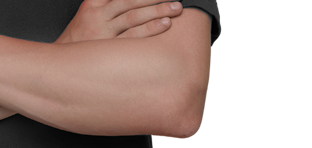
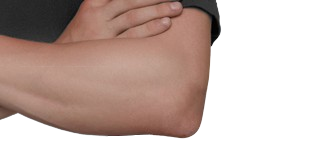
feat(about): enhance about-me component layout and styling with responsive adjustments

diff --git a/src/app/components/about-me/about-me.scss b/src/app/components/about-me/about-me.scss
@@ -5,50 +5,75 @@
     position: relative;
     width: 100%;
     background: var(--bg-dark-3); 
-    padding: clamp(var(--space-3xl), 8vw, var(--space-4xl)) 0 clamp(var(--space-4xl), 10vw, 6rem) 0;
+    padding: clamp(var(--space-2xl), 7vw, var(--space-4xl)) 0 clamp(var(--space-3xl), 9vw, 6rem) 0;
     overflow: hidden;
 
-        &__container {
+    &__container {
         @include global_content_wrapper();
         margin: 0 auto;
-        @include flexbox(column-reverse, flex-start, center, var(--space-3xl));
+        position: relative;
 
-        @media (min-width: 992px) {
-            @include flexbox(row, space-between, flex-start, var(--space-xl));
-            
-            padding-left: 100px; 
-            padding-right: clamp(var(--space-lg), 5vw, var(--space-2xl)); 
+        @include flexbox(row, space-between, flex-start, clamp(6rem, 10vw, 10rem));
+        padding-left: 100px; 
+        padding-right: clamp(var(--space-lg), 5vw, var(--space-2xl));
+
+        @include respond-to(xl) {
+            @include flexbox(column, flex-start, center, clamp(var(--space-xl), 5vw, var(--space-3xl)));
+            padding-left: clamp(var(--space-lg), 5vw, var(--space-2xl));
         }
     }
 
     &__content {
-        flex: 1;
-        max-width: 600px;
-        width: 100%;
-        margin-left: 0; 
+        flex: 0 1 38rem;
+        max-width: 580px;
+        width: auto;
+        margin-left: 0;
+
+        @include respond-to(xl) {
+            flex: 1 1 auto;
+            max-width: 600px;
+            width: 100%;
+        }
     }
 
     &__title {
         font-family: var(--font-family);
         font-weight: var(--fw-bold);
-        font-size: clamp(2.5rem, 5vw, var(--fs-hero-title)); 
+        font-size: clamp(2.5rem, 5vw, var(--fs-section-title)); 
         line-height: var(--line-height-tight); 
         color: var(--txt-primary);
         margin-bottom: var(--space-xl);
+
+        @include respond-to(xl) {
+            font-size: clamp(2.5rem, 10vw, 3.75rem);
+            margin-bottom: clamp(var(--space-lg), 4vw, var(--space-xl));
+        }
+
+        @include respond-to(xsm) {
+            font-size: clamp(2.5rem, 12vw, 3.25rem);
+        }
     }
 
     &__intro-box {
         @include flexbox(column, flex-start, flex-start, 35px); 
         width: 100%;
+
+        @include respond-to(xl) {
+            gap: clamp(var(--space-xl), 4vw, 2.25rem);
+        }
     }
 
     &__intro {
         font-family: var(--font-family);
         font-size: var(--fs-sm);
-        line-height: 1.2; // 120%
+        line-height: 1.2; 
         color: var(--txt-secondary);
-        
-        @include flexbox(column, flex-start, flex-start, 16px);
+
+        @include flexbox(column, flex-start, flex-start, var(--space-md));
+
+        p {
+            margin: 0;
+        }
     }
 
     &__features {
@@ -57,6 +82,10 @@
         margin: 0;
         @include flexbox(column, flex-start, flex-start, 24px); 
         width: 100%;
+
+        @include respond-to(xl) {
+            gap: clamp(var(--space-lg), 4vw, 24px);
+        }
     }
 
     &__feature-item {
@@ -84,18 +113,35 @@
         margin: 0;
     }
 
-    &__photo-stack {
-        position: relative;
-        flex: 1;
-        width: 100%;
-        max-width: 450px;
-        margin: 0 auto;
-        aspect-ratio: 820 / 900;
+    &__img-bg {
+        position: absolute;
+        z-index: 3;
+        width: min(100vw, 1440px);
+        height: auto;
+        left: 50%;
+        transform: translateX(-50%);
+        top: 72%;
+        pointer-events: none;
 
-        @media (min-width: 992px) {
-            max-width: 500px;
-            margin: 0;
+        @include respond-to(xl) {
+            top: 38%;
         }
+    }
+
+    &__photo-stack {
+    position: relative;
+    aspect-ratio: 593 / 647; 
+    align-self: center;
+    width: 100%;
+    max-width: 650px; 
+    margin-left: auto;
+    margin-right: 0;
+
+    @include respond-to(xl) {
+        width: 100%;
+        max-width: 400px; 
+        margin: 0 auto; 
+    }
 
         img {
             position: absolute;
@@ -105,24 +151,80 @@
             object-fit: contain;
             pointer-events: none;
         }
+
+        .about-me__img-shadows { 
+            position: absolute;
+            z-index: 1; 
+            width: 100%;
+            height: 100%;
+            left: -2%;
+            top: -5%;
+            object-fit: cover;
+            overflow: visible;
+
+            @include respond-to(xl) {
+                inset: 0;
+                object-fit: contain;
+            }
+        } 
+
+        .about-me__img-photo { 
+            z-index: 2; 
+            position: relative;
+            width: 100%;
+            height: auto;
+            display: block;
+            object-fit: contain;
+            left: 2%;
+
+            @include respond-to(xl) {
+                position: absolute;
+                height: 100%;
+                inset: 0;
+                left: 0;
+            }
+        } 
+
+        .about-me__img-mask { 
+            position: absolute;
+            z-index: 4; 
+            width: 53%; 
+            height: auto;
+            object-fit: contain;
+            bottom: 2.5%;
+            right: -2%; 
+            top: auto;
+            left: auto;
+
+            @include respond-to(xl) {
+                bottom: 2.4%;
+                right: 0%;
+                transform: rotate(-180deg);
+            }
+        } 
     }
 
-    &__img-shadows { z-index: 1; }
-    &__img-photo   { z-index: 2; }
-    &__img-shape   { z-index: 3; }
-    &__img-mask    { z-index: 4; } 
+    @include respond-to(md) {
+        &__container {
+            padding-inline: var(--space-lg);
+            gap: var(--space-xl);
+        }
 
-    &__wave-container {
-        position: absolute;
-        bottom: -2px; 
-        left: 0;
-        width: 100%;
-        line-height: 0;
-        z-index: 5;
-    }
+        &__content {
+            max-width: 100%;
+        }
 
-    &__wave {
-        width: 100%;
-        height: auto;
+        &__intro-box {
+            gap: var(--space-lg);
+        }
+
+        &__feature-item {
+            gap: 12px;
+        }
+
+        &__icon-box {
+            width: 40px;
+            height: 40px;
+        }
     }
 }

diff --git a/src/app/components/about-me/about-me.html b/src/app/components/about-me/about-me.html
@@ -1,10 +1,10 @@
-<section class="about-me">
+<section class="about-me" id="about">
+    <img src="/shapes/hero-background-version-b.svg" alt="" aria-hidden="true" class="about-me__img-bg" />
+
     <div class="about-me__container">
-        <!-- Linke Spalte: Texte und Features -->
         <div class="about-me__content">
             <h2 class="about-me__title">{{ 'ABOUT.TITLE' | translate }}</h2>
 
-            <!-- Neuer umschließender Box-Container für die exakten Figma-Abstände (35px) -->
             <div class="about-me__intro-box">
                 <div class="about-me__intro">
                     <p>{{ 'ABOUT.INTRO_GREETING' | translate }}</p>
@@ -12,7 +12,6 @@
                     <p>{{ 'ABOUT.INTRO_CTA' | translate }}</p>
                 </div>
 
-                <!-- Die Feature-Liste mit den Icons -->
                 <ul class="about-me__features">
                     <li class="about-me__feature-item">
                         <div class="about-me__icon-box">
@@ -20,14 +19,12 @@
                         </div>
                         <p class="about-me__feature-text">{{ 'ABOUT.FEATURE_LOCATION' | translate }}</p>
                     </li>
-
                     <li class="about-me__feature-item">
                         <div class="about-me__icon-box">
                             <app-icon name="lightbulb"></app-icon>
                         </div>
                         <p class="about-me__feature-text">{{ 'ABOUT.FEATURE_MINDSET' | translate }}</p>
                     </li>
-
                     <li class="about-me__feature-item">
                         <div class="about-me__icon-box">
                             <app-icon name="puzzle"></app-icon>
@@ -38,18 +35,12 @@
             </div>
         </div>
 
-        <!-- Rechte Spalte: Gestapelter Photo-Stack -->
         <div class="about-me__photo-stack">
-            <!-- Alle Pfade korrigiert auf deinen public-Ordner (ohne führenden Slash) -->
-            <img ngSrc="shapes/photo-shadows.svg" alt="" aria-hidden="true" width="820" height="900"
-                class="about-me__img-shadows" />
-            <img ngSrc="img/hero-character-photo.png" alt="Jermaine Jérôme Bärwolf" width="820" height="900" priority
-                class="about-me__img-photo" />
-            <img ngSrc="shapes/hero-background-version-b.svg" alt="" aria-hidden="true" width="820" height="900"
-                class="about-me__img-shape" />
-            <img ngSrc="img/character-photo-mask.png" alt="" aria-hidden="true" width="820" height="900"
-                class="about-me__img-mask" />
-        </div>
+            <img ngSrc="shapes/photo-shadows.svg" width="820" height="900" class="about-me__img-shadows">
 
+            <img ngSrc="img/hero-character-photo.png" width="820" height="900" class="about-me__img-photo">
+
+            <img ngSrc="img/character-photo-mask.png" width="820" height="900" class="about-me__img-mask">
+        </div>
     </div>
 </section>
